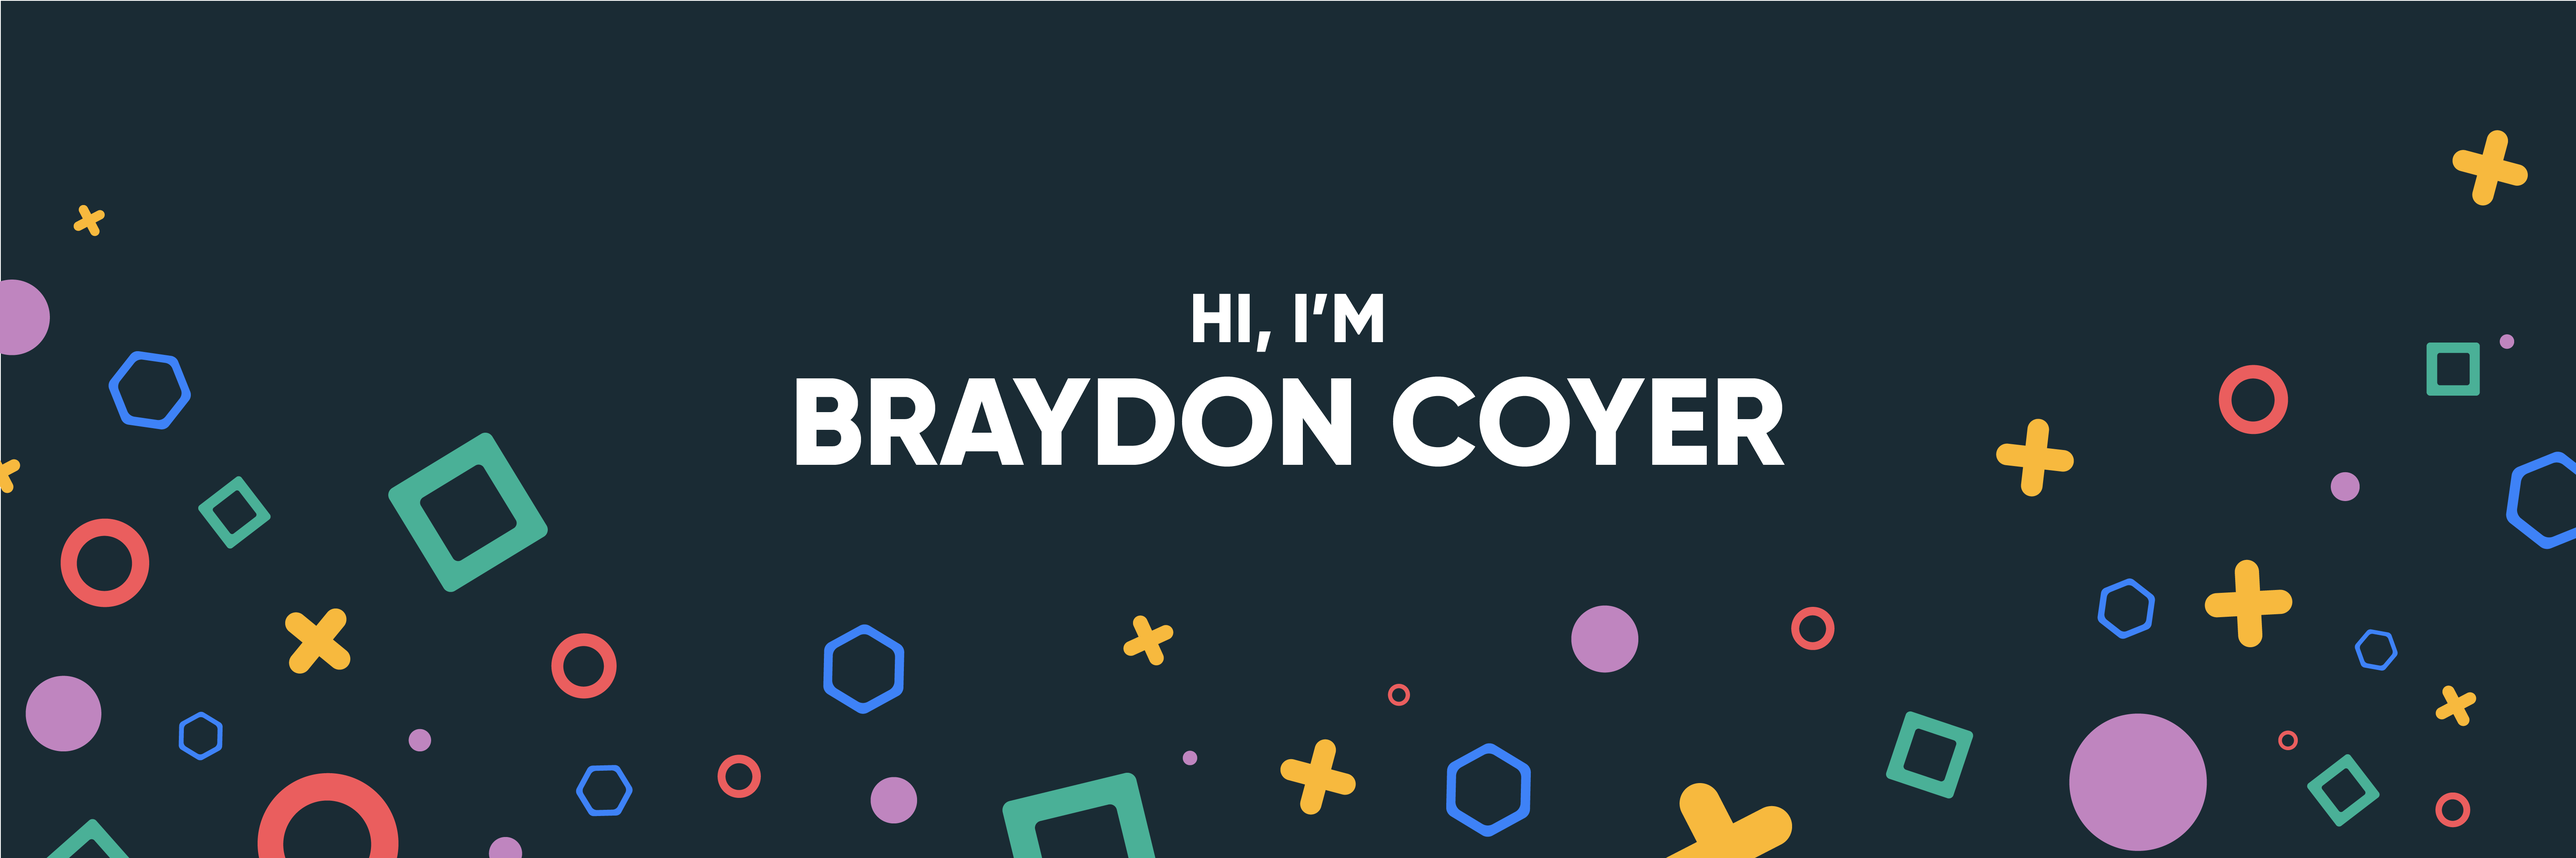
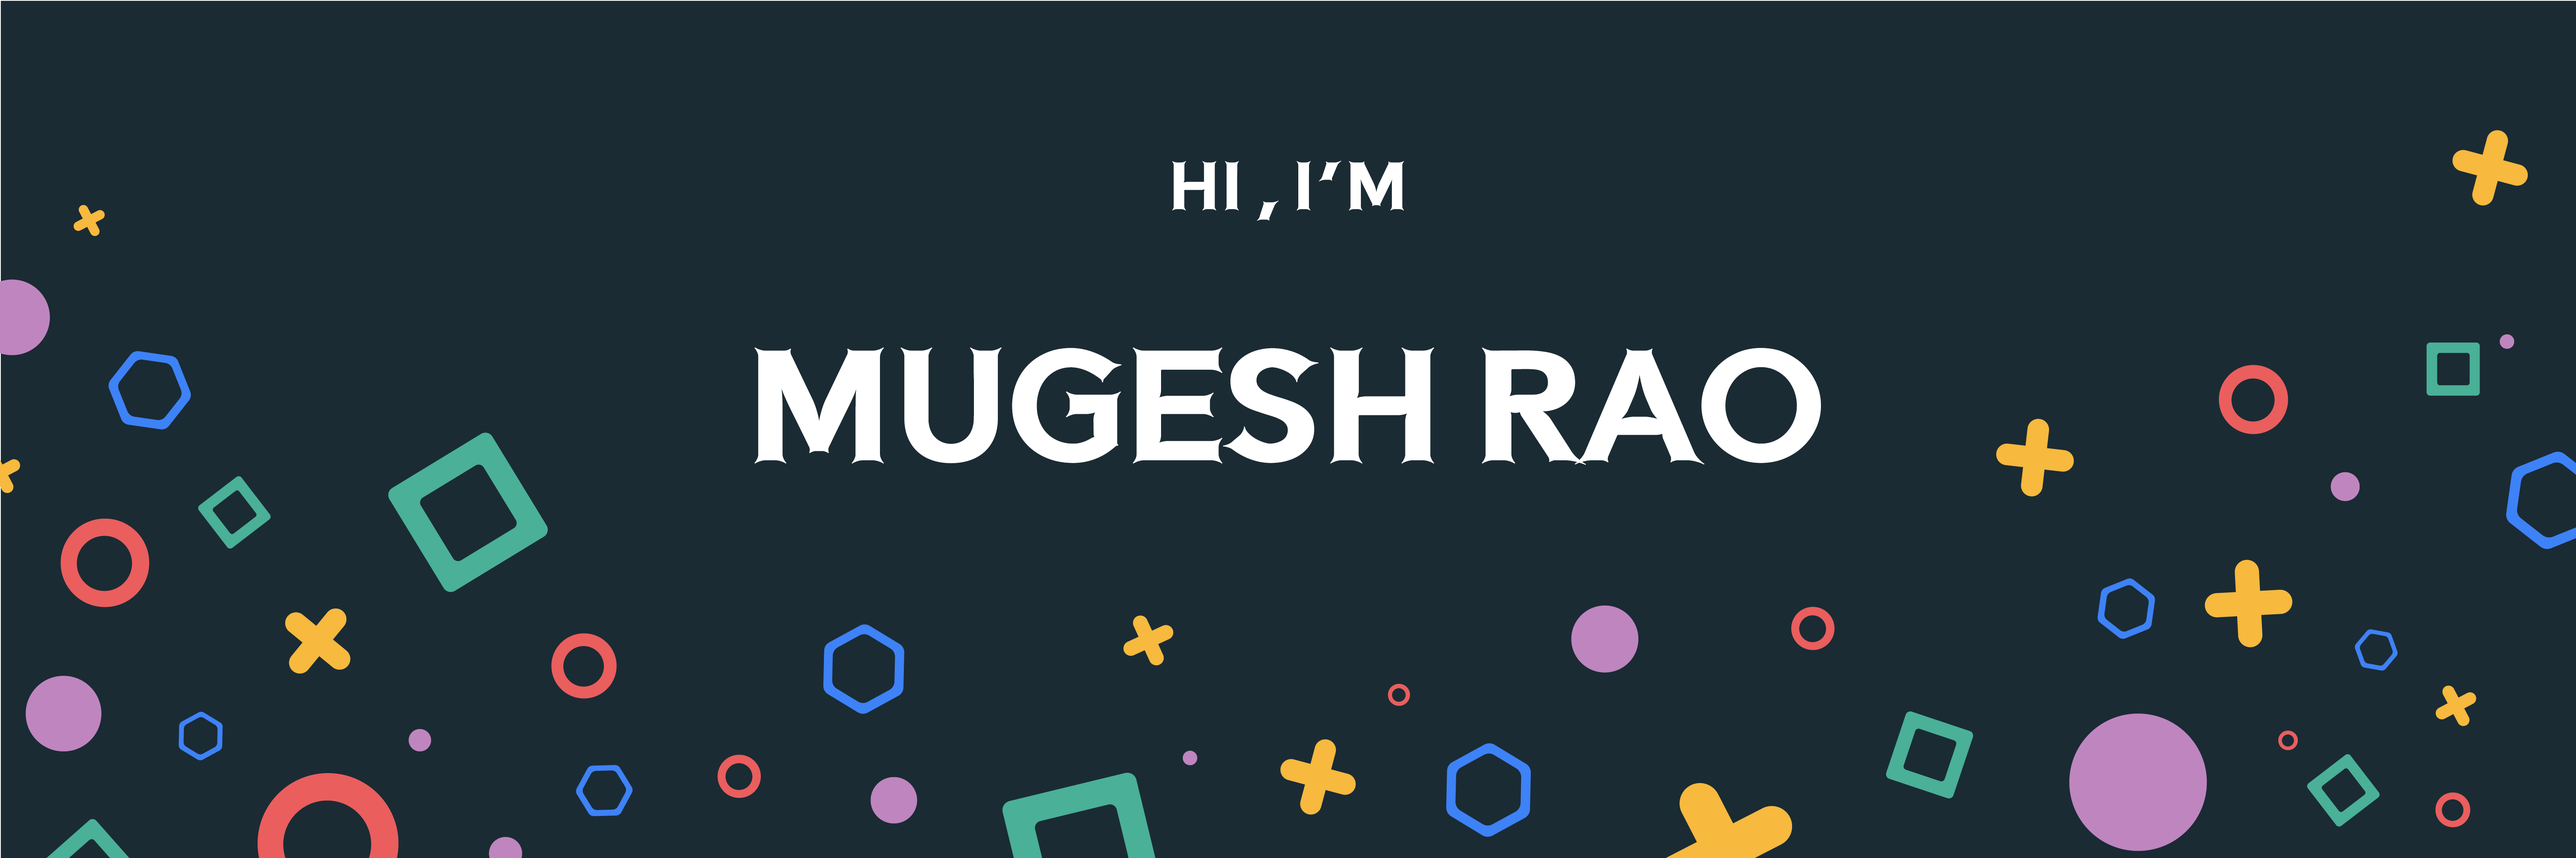
add

Changed region(s): [[0.2808, 0.3431, 0.7176, 0.5614], [0.4368, 0.1871, 0.5616, 0.2495]]

diff --git a/README.md b/README.md
@@ -1,4 +1,4 @@
-[![Braydon's GitHub Banner](./assets/GitHubHeader.png)](https://braydoncoyer.dev)
+[![Braydon's GitHub Banner](./assets/Rao.png)](https://www.instagram.com/mugeshraoo/)
 
 [![Visits Badge](https://badges.pufler.dev/visits/braydoncoyer/braydoncoyer)](https:braydoncoyer.dev)
 [![Twitter Badge](https://img.shields.io/badge/Twitter-Profile-informational?style=flat&logo=twitter&logoColor=white&color=1CA2F1)](https://twitter.com/BraydonCoyer)
@@ -11,17 +11,7 @@ I’m Mugesh Rao, a senior full-stack engineer, creative coder and self-proclaim
 
 Want to know more about me? [Check out my portfolio.](https://braydoncoyer.dev/)
 
-## 📝 Latest Blog Posts
 
-<br>
-
-<!-- BLOG-POST-LIST:START -->
-- [Blogfolio V3 - Update 2022](https://braydoncoyer.dev/blog/blogfolio-v3-update-2022)
-- [How To Create an Animated Loading Spinner with Tailwind CSS](https://braydoncoyer.dev/blog/how-to-create-an-animated-loading-spinner-with-tailwind-css)
-- [Do Interview Kickstart Courses Live Up to the Cost?](https://braydoncoyer.dev/blog/do-interview-kickstart-courses-live-up-to-the-cost)
-- [5 Basic Tips for Angular Unit Testing](https://braydoncoyer.dev/blog/5-basic-tips-for-angular-unit-testing)
-- [Learn How to Click a Button when Angular Unit Testing](https://braydoncoyer.dev/blog/learn-how-to-click-a-button-when-angular-unit-testing)
-<!-- BLOG-POST-LIST:END -->
 
 <br>
 
@@ -125,19 +115,3 @@ Want to know more about me? [Check out my portfolio.](https://braydoncoyer.dev/)
 </details>
 
 <br>
-
-## 📣 How about an Office quote before you go?
-
-> There are certain things a boss does not share with his employees. His salary, that would depress them. His bed, it--- And I am not going to tell them that I'll be reading their e-mails.
->
-> <p>- Michael Scott</p>
-
-_Quote requested from [The Office API](https://www.officeapi.dev/)_
-
-Check back at the top of the hour for a new quote!
-
-<br>
-
-> ### Want to know how I made this README?
->
-> Check out my [tutorial](https://braydoncoyer.dev/blog/creating-a-killer-github-profile-readme-part-1/)!
